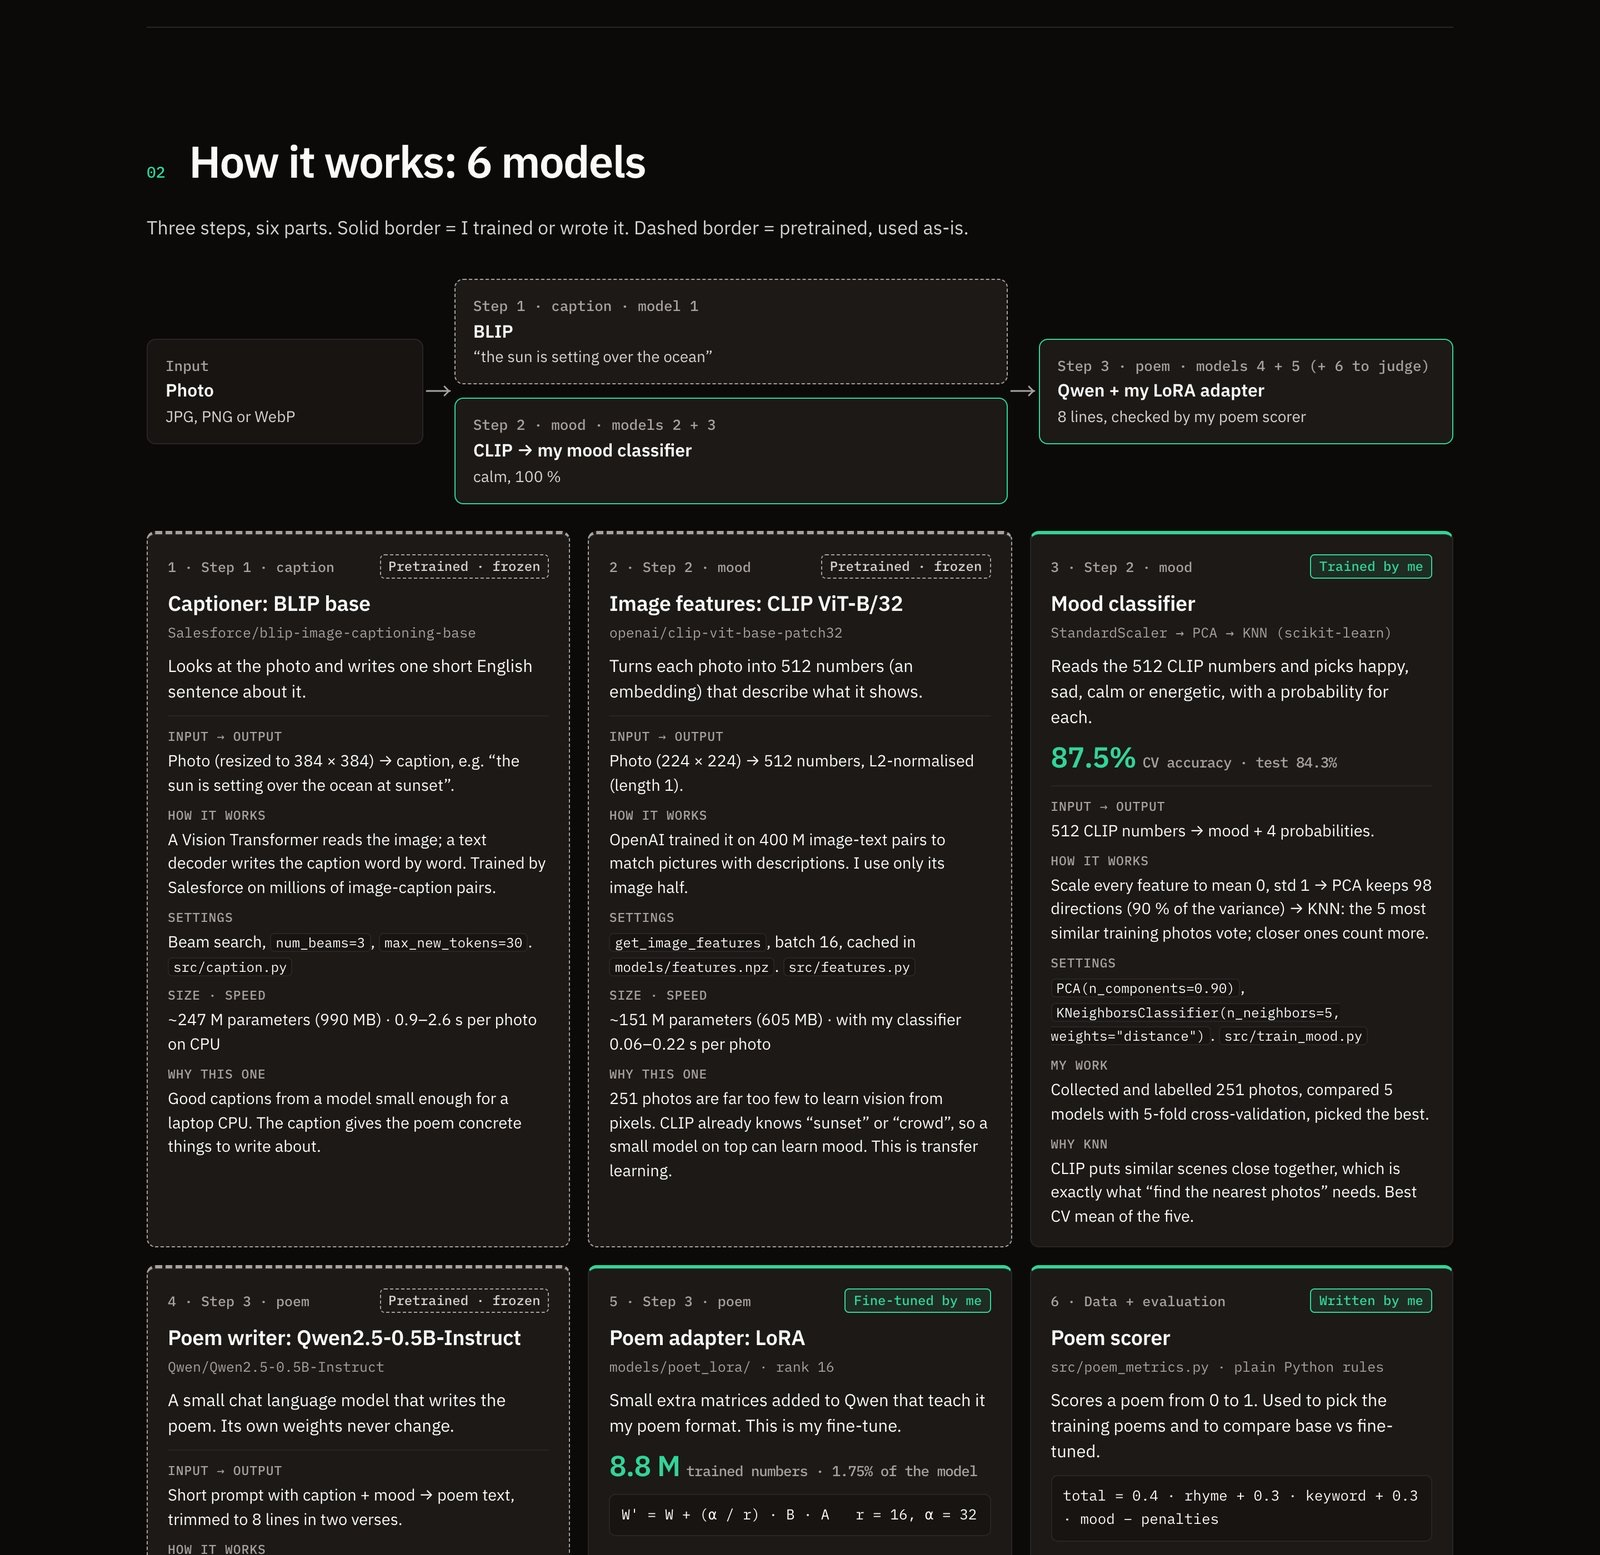
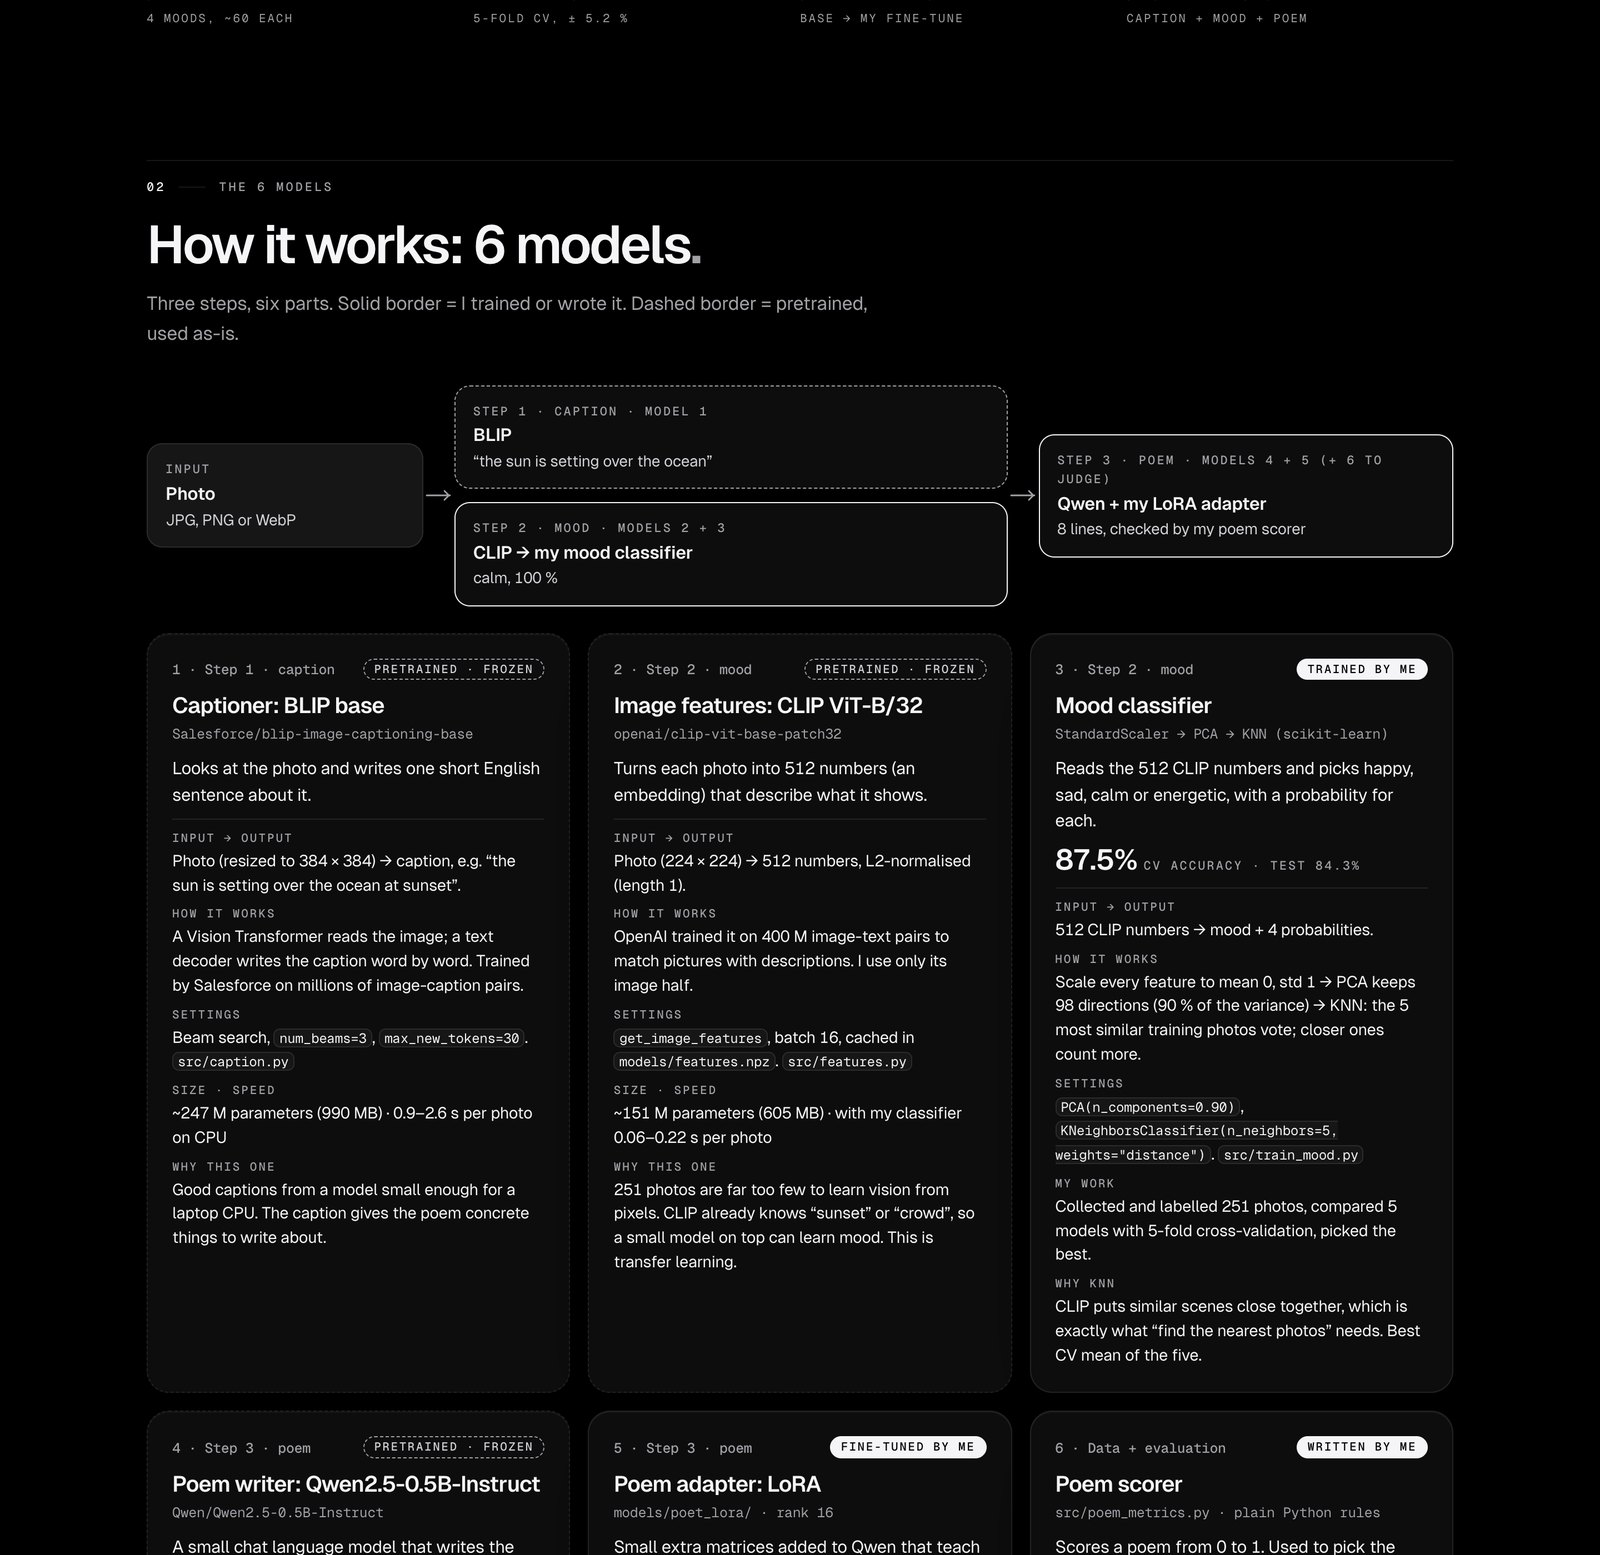
Image to Poem: new screenshots from the redesigned app

Changed region(s): [[0.0938, 0.0926, 0.9062, 1.0]]

diff --git a/lib/content/projects.ts b/lib/content/projects.ts
@@ -256,7 +256,7 @@ export const projects: Project[] = [
     role: "ML & engineering · college mini-project",
     cover: {
       src: "/projects/image-to-poem/01-studio.jpg",
-      alt: "The Studio: a lake photo is dropped in, the app reads it as calm with full confidence, captions it and writes an eight-line poem",
+      alt: "The Studio: a portrait of a smiling man is dropped in, the app reads it as happy with full confidence, captions it and writes an eight-line poem in about 6.6 seconds",
       width: 1600,
       height: 1000,
     },
@@ -388,7 +388,7 @@ export const projects: Project[] = [
     gallery: [
       {
         src: "/projects/image-to-poem/01-studio.jpg",
-        alt: "The Studio with a lake photo, its caption, the calm mood and an eight-line poem",
+        alt: "The Studio with a portrait photo, its caption, the happy mood and an eight-line poem",
         caption: "The Studio: drop a photo, get a caption, a mood and a poem.",
         width: 1600,
         height: 1000,
@@ -412,7 +412,7 @@ export const projects: Project[] = [
         alt: "Five training steps, the poem score distribution and train versus validation loss",
         caption: "How the poem data was built and how training went.",
         width: 1600,
-        height: 1317,
+        height: 1444,
       },
       {
         src: "/projects/image-to-poem/06-poem-eval.jpg",
@@ -426,7 +426,7 @@ export const projects: Project[] = [
         alt: "Four sample photos, one per mood, each with its caption and poem",
         caption: "One sample per mood.",
         width: 1600,
-        height: 1167,
+        height: 1222,
       },
       {
         src: "/projects/image-to-poem/04-clustering.jpg",
@@ -440,7 +440,7 @@ export const projects: Project[] = [
         alt: "Dataset section with counts per mood and a grid of photos",
         caption: "251 Creative Commons photos from Openverse.",
         width: 1600,
-        height: 1227,
+        height: 1327,
       },
       {
         src: "/projects/image-to-poem/10-phone.jpg",
